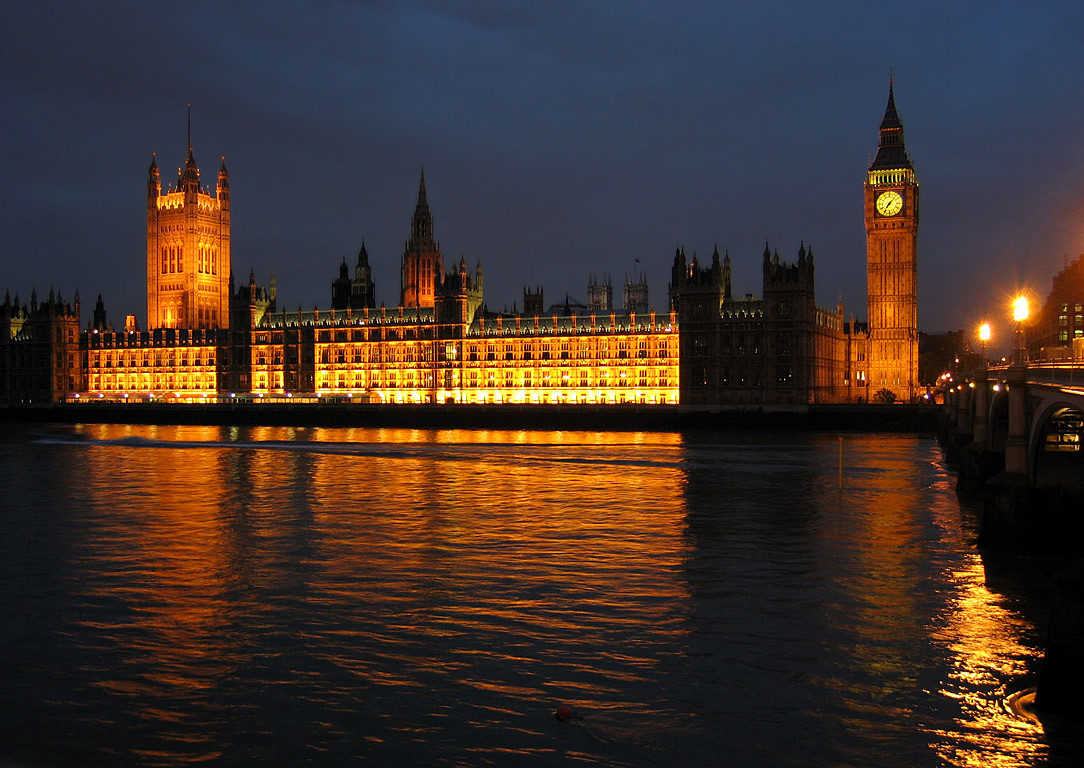
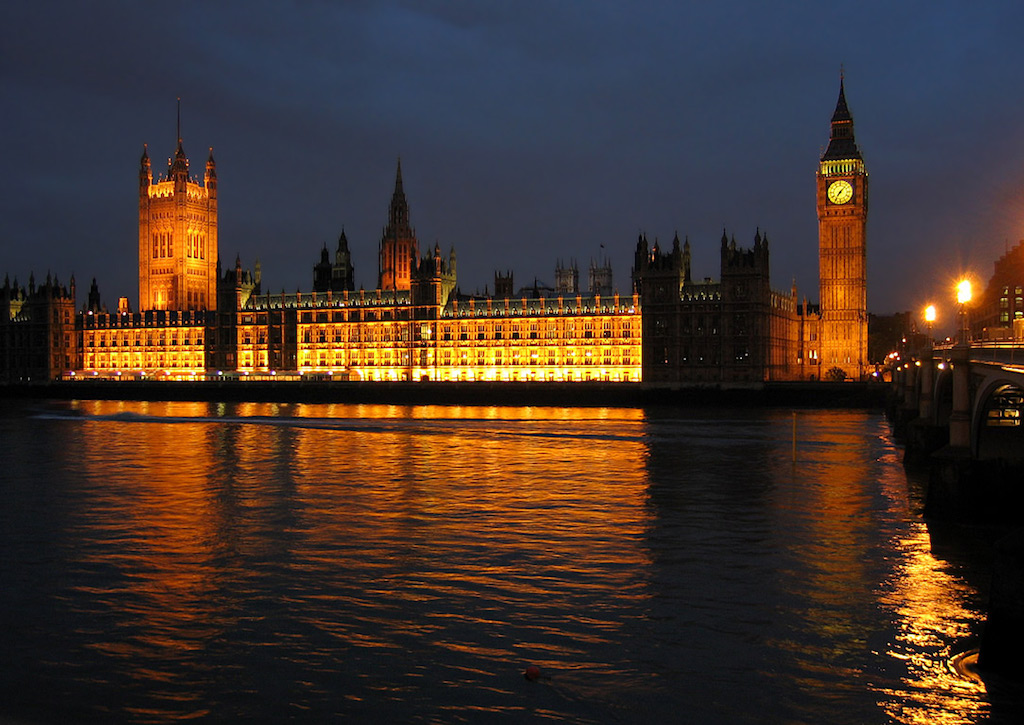
reduced size of images and removed dusk images

diff --git a/views/layout.html b/views/layout.html
@@ -11,19 +11,16 @@
   	<!--used https://css-tricks.com/perfect-full-page-background-image/ for background styling-->
   	<!--
 		Background images can be found at the Wikimedia Commons urls below:
-		
-		Dallas-day(https://commons.wikimedia.org/wiki/Dallas,_Texas#/media/File:Dallas_Downtown.jpg) 					- CC BY-SA 2.0
+
+		Dallas-day(https://commons.wikimedia.org/wiki/Dallas,_Texas#/media/File:Dallas_Downtown.jpg) 			- CC BY-SA 2.0
 		Dallas-night(https://commons.wikimedia.org/wiki/File:Dallas_at_Night_from_South.jpg) 							- CC BY 3.0
-		Dallas-dusk(https://commons.wikimedia.org/wiki/File:Dallas_skyline.jpg) 										- CC BY-SA 2.0	
 		London-day(https://commons.wikimedia.org/wiki/London#/media/File:London_Skyline.jpg) 							- CC BY-SA 3.0
-		London-night(https://commons.wikimedia.org/wiki/London#/media/File:PalaceOfWestminsterAtNight.jpg) 				- CC BY-SA 2.0
-		London-dusk(https://commons.wikimedia.org/wiki/London#/media/File:London_Thames_Sunset_panorama_-_Feb_2008.jpg)	- CC BY 3.0
-		Sydney-day(https://commons.wikimedia.org/wiki/Sydney#/media/File:S%C3%ADdney-Australia30.JPG) 					- CC BY-SA 3.0
-		Sydney-night(https://commons.wikimedia.org/wiki/File:Sydney,_Australia.jpg)										- CC BY 2.0
-		Sydney-dusk(https://commons.wikimedia.org/wiki/Sydney#/media/File:Sydney_skyline_at_dusk_-_Dec_2008.jpg)		- CC BY-SA 3.0
-		
+		London-night(https://commons.wikimedia.org/wiki/London#/media/File:PalaceOfWestminsterAtNight.jpg)- CC BY-SA 2.0
+		Sydney-day(https://commons.wikimedia.org/wiki/Sydney#/media/File:S%C3%ADdney-Australia30.JPG) 		- CC BY-SA 3.0
+		Sydney-night(https://commons.wikimedia.org/wiki/File:Sydney,_Australia.jpg)										    - CC BY 2.0
+
 		The images use the following Creative Commons Licensing:
-		
+
 		CC BY 2.0 		- https://creativecommons.org/licenses/by/2.0
 		CC BY-SA 2.0 	- https://creativecommons.org/licenses/by-sa/2.0
 		CC BY 3.0 		- https://creativecommons.org/licenses/by/3.0

diff --git a/views/template.html b/views/template.html
@@ -7,16 +7,16 @@
 					<img class="stamp-border" src='./images/stamp-outline.png'/>
 					<!--
 					    Stamp images are from lorempixel.com under the Creative Commons BY-SA License: http://creativecommons.org/licenses/
-                		If image could not be retrieved at the time of creation, a default image is used instead:
-                		
-                		Dallas-stamp(https://commons.wikimedia.org/wiki/File:The_Margaret_Hunt_Hill_Bridge.02.jpg) 							- CC BY 2.0
-                		London-stamp(https://commons.wikimedia.org/wiki/London#/media/File:Bigben.jpg) 										- CC BY-SA 3.0
-                		Sydney-stamp(https://commons.wikimedia.org/wiki/Sydney_Opera_House#/media/File:Sydney_opera_house_side_view.jpg) 	- CC BY-SA 3.0
-                		
-                		The images use the following Creative Commons Licensing:
-                		
-                		CC BY 2.0 		- https://creativecommons.org/licenses/by/2.0
-                        CC BY-SA 3.0 	- https://creativecommons.org/licenses/by-sa/3.0
+              If image could not be retrieved at the time of creation, a default image is used instead:
+
+              Dallas-stamp(https://commons.wikimedia.org/wiki/File:The_Margaret_Hunt_Hill_Bridge.02.jpg) 				- CC BY 2.0
+              London-stamp(https://commons.wikimedia.org/wiki/London#/media/File:Bigben.jpg) 										- CC BY-SA 3.0
+              Sydney-stamp(https://commons.wikimedia.org/wiki/Sydney_Opera_House#/media/File:Sydney_opera_house_side_view.jpg) 	- CC BY-SA 3.0
+
+              The images use the following Creative Commons Licensing:
+
+              CC BY 2.0 		- https://creativecommons.org/licenses/by/2.0
+              CC BY-SA 3.0 	- https://creativecommons.org/licenses/by-sa/3.0
 					-->
 					<img class="stamp-pic" src='http://{{account}}.cloudant.com/postcards/{{_id}}/stamp.jpeg'/>
 				</div>
